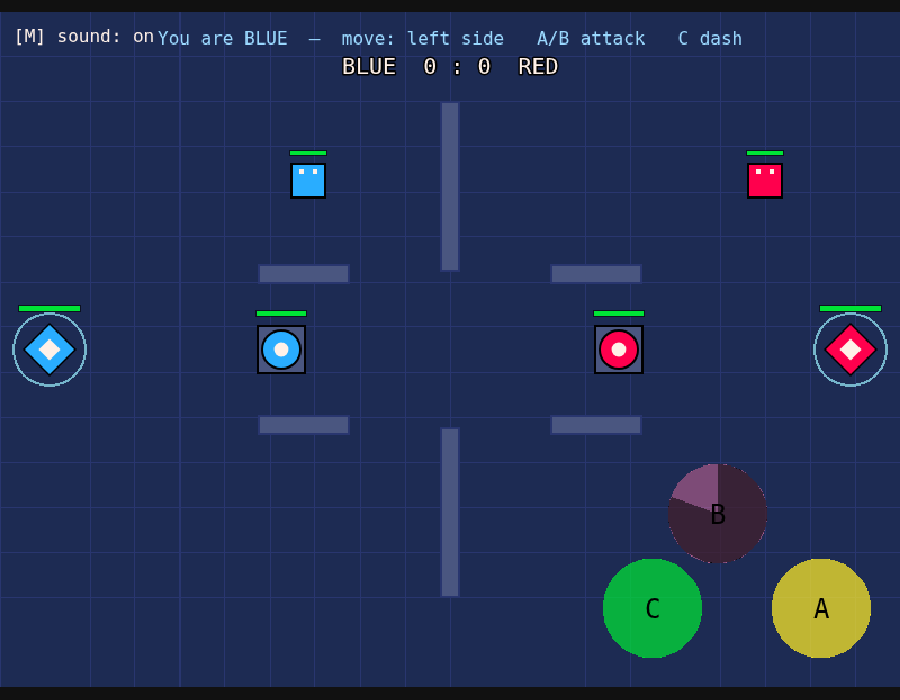
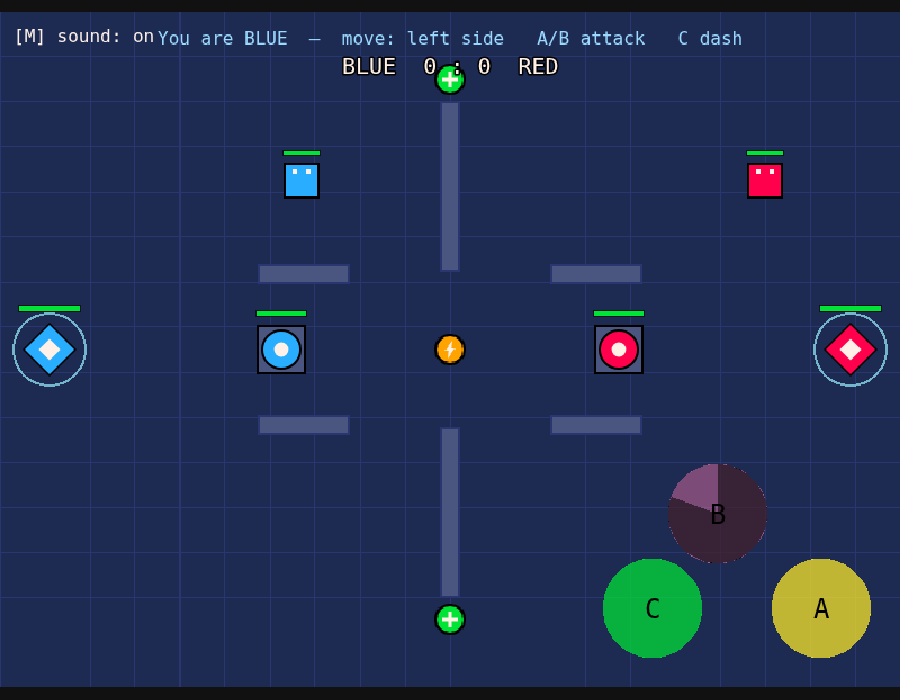
Add map pickups: heal and power orbs
Give the open map a reason to fight over it. Orbs sit at fixed spots down the
center column (fair to both teams, but contested): a green HEAL orb restores HP
instantly, an orange POWER orb boosts your attack damage for a few seconds (the
hero glows). A grabbed orb disappears and reappears on a timer.

Server: pickups live in this.pickups, reset with the match. stepPickups() grants
an active orb to a living player standing on it (then starts its respawn timer)
and brings back ones whose timer elapsed; grantPickup() heals (capped at max) or
sets player.powerUntil. tryAttack() multiplies a buffed bolt's damage by
PICKUP.powerMult. Snapshots send only the active orbs, plus a per-player
`powered` flag for the aura. New PICKUP + PICKUP_SPOTS config.

Client: NetClient stores pickups; ArenaScene.syncPickups() draws the active orbs
with a gentle pulse and cleans up grabbed ones; the Player entity shows an
orange aura while powered (Player.setPowered). New heal/power orb textures.

New m21.pickups (server: heal restores + caps, power buffs bolt damage then
expires, taken orb respawns on its timer, snapshot lists only active orbs +
powered flag, reset) and m21.pickups.render (orb sprites created/cleaned up,
powered aura toggles). m20's projectile sub-test clears pickups so the center
orb can't change its bolt's damage. 31/31 test groups pass; live two-browser
test passes; build OK. README + HOW-TO + showcase screenshot updated.

https://claude.ai/code/session_01MAXKRUpJFcKFAvV2b8xTXo

diff --git a/src/net/GameServer.js b/src/net/GameServer.js
@@ -22,6 +22,8 @@ import {
   MINION,
   TOWER,
   TOWER_POS,
+  PICKUP,
+  PICKUP_SPOTS,
 } from "../config.js";
 import { stepPosition, normalizeInput, resolveMove, pointInWall } from "../sim.js";
 
@@ -44,8 +46,10 @@ export default class GameServer {
 
     this.bases = new Map(); // team -> { team, x, y, hp, alive }
     this.towers = new Map(); // team -> { team, x, y, hp, alive, cd }
+    this.pickups = []; // [{ id, kind, x, y, active, respawnAt }]
     this.resetBases();
     this.resetTowers();
+    this.resetPickups();
     // Match lifecycle:
     //   "waiting"   — not enough players yet; the world is frozen in the lobby
     //   "countdown" — enough players; a short "get ready" timer is running
@@ -70,6 +74,17 @@ export default class GameServer {
       const pos = TOWER_POS[team];
       this.towers.set(team, { team, x: pos.x, y: pos.y, hp: TOWER.maxHp, alive: true, cd: 0 });
     }
+  }
+
+  resetPickups() {
+    this.pickups = PICKUP_SPOTS.map((s) => ({
+      id: s.id,
+      kind: s.kind,
+      x: s.x,
+      y: s.y,
+      active: true, // available to grab
+      respawnAt: 0, // when an inactive one comes back (ms on the sim clock)
+    }));
   }
 
   addConnection(conn) {
@@ -144,6 +159,7 @@ export default class GameServer {
       alive: true,
       deadUntil: 0,
       cd: { basic: 0, ability: 0, dash: 0 },
+      powerUntil: 0, // attack-damage buff active while timeMs < this
     };
   }
 
@@ -203,6 +219,10 @@ export default class GameServer {
     ax /= len;
     ay /= len;
 
+    // A power pickup boosts this attack's damage while the buff is active.
+    const powered = this.timeMs < player.powerUntil;
+    const dmg = Math.round(spec.dmg * (powered ? PICKUP.powerMult : 1));
+
     this.projectiles.push({
       id: "b" + this.nextProjId++,
       ownerId: player.id,
@@ -212,7 +232,7 @@ export default class GameServer {
       y: player.y,
       vx: ax * spec.speed,
       vy: ay * spec.speed,
-      dmg: spec.dmg,
+      dmg,
       dieAt: this.timeMs + spec.ttl,
     });
   }
@@ -470,6 +490,9 @@ export default class GameServer {
     // 3) Let the towers zap any enemy in range.
     this.stepTowers();
 
+    // 3b) Pick-ups: grant to anyone standing on them; respawn taken ones.
+    this.stepPickups();
+
     // 4) Move projectiles; expire; check hits on players, minions, towers, bases.
     const survivors = [];
     for (const b of this.projectiles) {
@@ -536,6 +559,37 @@ export default class GameServer {
     }
   }
 
+  // --- Map pickups -----------------------------------------------------------
+
+  // Grant any active pickup to a living player standing on it (then send it on a
+  // respawn timer), and bring back ones whose timer has elapsed.
+  stepPickups() {
+    const reach = PICKUP.radius + PLAYER_HALF;
+    for (const pk of this.pickups) {
+      if (!pk.active) {
+        if (this.timeMs >= pk.respawnAt) pk.active = true;
+        continue;
+      }
+      for (const p of this.players.values()) {
+        if (!p.alive) continue;
+        if ((p.x - pk.x) ** 2 + (p.y - pk.y) ** 2 <= reach * reach) {
+          this.grantPickup(p, pk);
+          pk.active = false;
+          pk.respawnAt = this.timeMs + PICKUP.respawnMs;
+          break;
+        }
+      }
+    }
+  }
+
+  grantPickup(player, pk) {
+    if (pk.kind === "heal") {
+      player.hp = Math.min(COMBAT.maxHp, player.hp + PICKUP.heal);
+    } else if (pk.kind === "power") {
+      player.powerUntil = this.timeMs + PICKUP.powerMs;
+    }
+  }
+
   damageBase(base, amount) {
     if (!this.baseVulnerable(base.team)) return; // shielded while its tower stands
     base.hp = Math.max(0, base.hp - amount);
@@ -567,6 +621,7 @@ export default class GameServer {
   resetMatch() {
     this.resetBases();
     this.resetTowers();
+    this.resetPickups();
     this.score = { blue: 0, red: 0 };
     for (const p of this.players.values()) {
       const fresh = this.freshPlayer(p.id, p.team, p.spawnIndex);
@@ -605,6 +660,7 @@ export default class GameServer {
         alive: p.alive,
         // Seconds until this player respawns (0 if alive) — for the HUD timer.
         respawnIn: p.alive ? 0 : Math.max(0, Math.ceil((p.deadUntil - this.timeMs) / 1000)),
+        powered: this.timeMs < p.powerUntil, // power buff active (for the aura)
       })),
       projectiles: this.projectiles.map((b) => ({
         id: b.id,
@@ -621,6 +677,10 @@ export default class GameServer {
         hp: m.hp,
         alive: m.alive,
       })),
+      // Only the currently-available pickups (the client shows what's listed).
+      pickups: this.pickups
+        .filter((pk) => pk.active)
+        .map((pk) => ({ id: pk.id, kind: pk.kind, x: pk.x, y: pk.y })),
       towers: [...this.towers.values()].map((tw) => ({
         team: tw.team,
         x: tw.x,

diff --git a/src/scenes/ArenaScene.js b/src/scenes/ArenaScene.js
@@ -35,6 +35,7 @@ export default class ArenaScene extends Phaser.Scene {
     this.sprites = new Map(); // player id -> Player display object
     this.bolts = new Map(); // projectile id -> circle
     this.minionSprites = new Map(); // minion id -> Minion display object
+    this.pickupSprites = new Map(); // pickup id -> sprite
     this.towerSprites = new Map(); // team -> Tower display object
     this.baseSprites = new Map(); // team -> Base display object
     this.damageNumbers = []; // active floating damage-number texts
@@ -242,6 +243,7 @@ export default class ArenaScene extends Phaser.Scene {
     // 2) Sync everything to the server's snapshot.
     this.syncBases();
     this.syncTowers();
+    this.syncPickups();
     this.syncMinions();
     this.syncPlayers(dt);
     this.syncProjectiles();
@@ -402,6 +404,7 @@ export default class ArenaScene extends Phaser.Scene {
 
       sprite.setHp(p.hp);
       sprite.setAlive(p.alive);
+      sprite.setPowered(p.powered);
     }
     for (const [id, sprite] of this.sprites) {
       if (!seen.has(id)) {
@@ -481,6 +484,35 @@ export default class ArenaScene extends Phaser.Scene {
       sprite.lastAlive = tw.alive;
       sprite.setHp(tw.hp, tw.maxHp);
       sprite.setAlive(tw.alive);
+    }
+  }
+
+  // Draw the available map pickups (the snapshot lists only active ones), with
+  // a gentle pulse. A pickup that's been grabbed drops out of the list and its
+  // sprite is removed.
+  syncPickups() {
+    const seen = new Set();
+    for (const pk of this.net.pickups) {
+      seen.add(pk.id);
+      if (!this.pickupSprites.has(pk.id)) {
+        const tex = pk.kind === "heal" ? "pickup_heal" : "pickup_power";
+        const sprite = this.add.sprite(pk.x, pk.y, tex).setDepth(5);
+        this.tweens.add({
+          targets: sprite,
+          scale: 1.18,
+          yoyo: true,
+          repeat: -1,
+          duration: 600,
+          ease: "Sine.inOut",
+        });
+        this.pickupSprites.set(pk.id, sprite);
+      }
+    }
+    for (const [id, sprite] of this.pickupSprites) {
+      if (!seen.has(id)) {
+        sprite.destroy();
+        this.pickupSprites.delete(id);
+      }
     }
   }
 

diff --git a/src/textures.js b/src/textures.js
@@ -5,7 +5,7 @@
 // Later you can replace these with real .png art without changing game logic.
 // ===========================================================================
 
-import { COLORS, PLAYER_SIZE, BASE, MINION, TOWER } from "./config.js";
+import { COLORS, PLAYER_SIZE, BASE, MINION, TOWER, PICKUP } from "./config.js";
 
 // Draws one little 16x16 character sprite into a named texture.
 // `key` is the name we'll refer to it by; `bodyColor` is its team color.
@@ -104,6 +104,30 @@ function makeTowerTexture(scene, key, color) {
   g.destroy();
 }
 
+// Draws a pickup orb: a round, outlined disc with a symbol. A green disc with a
+// white cross = heal; an orange disc with a white "bolt" wedge = power.
+function makePickupTexture(scene, key, kind) {
+  const g = scene.make.graphics({ x: 0, y: 0 }, false);
+  const r = PICKUP.radius;
+  const s = r * 2;
+  g.fillStyle(COLORS.outline, 1);
+  g.fillCircle(r, r, r);
+  g.fillStyle(kind === "heal" ? 0x00e436 : 0xffa300, 1);
+  g.fillCircle(r, r, r - 2);
+  g.fillStyle(COLORS.white, 1);
+  if (kind === "heal") {
+    // A plus sign.
+    g.fillRect(r - 1.5, r - 6, 3, 12);
+    g.fillRect(r - 6, r - 1.5, 12, 3);
+  } else {
+    // A little lightning bolt (two stacked triangles offset sideways).
+    g.fillTriangle(r + 2, r - 7, r - 4, r + 1, r + 1, r + 1);
+    g.fillTriangle(r - 2, r + 7, r + 4, r - 1, r - 1, r - 1);
+  }
+  g.generateTexture(key, s, s);
+  g.destroy();
+}
+
 // Called once when the arena starts. Creates every texture the game needs.
 export function generateTextures(scene) {
   makeCharacterTexture(scene, "player_blue", COLORS.blueTeam);
@@ -114,4 +138,6 @@ export function generateTextures(scene) {
   makeMinionTexture(scene, "minion_red", COLORS.minionRed);
   makeTowerTexture(scene, "tower_blue", COLORS.blueTeam);
   makeTowerTexture(scene, "tower_red", COLORS.redTeam);
+  makePickupTexture(scene, "pickup_heal", "heal");
+  makePickupTexture(scene, "pickup_power", "power");
 }

diff --git a/src/config.js b/src/config.js
@@ -99,6 +99,25 @@ export const DASH = {
   cd: 2000, // cooldown in milliseconds
 };
 
+// --- Map pickups ------------------------------------------------------------
+// Orbs that sit at fixed spots in the open arena. Walk over one to grab it: a
+// HEAL orb restores HP instantly, a POWER orb boosts your attack damage for a
+// few seconds. After it's taken, it reappears on a timer. All spots sit on the
+// center column (x = middle) so neither team is closer — fair but contested.
+export const PICKUP = {
+  radius: 12, // on-screen size
+  respawnMs: 12000, // time to reappear after being grabbed
+  heal: 40, // HP restored by a heal orb
+  powerMult: 1.6, // attack-damage multiplier while a power buff is active
+  powerMs: 6000, // how long the power buff lasts
+};
+
+export const PICKUP_SPOTS = [
+  { id: "heal_top", kind: "heal", x: GAME_WIDTH / 2, y: 60 },
+  { id: "heal_bot", kind: "heal", x: GAME_WIDTH / 2, y: GAME_HEIGHT - 60 },
+  { id: "power_mid", kind: "power", x: GAME_WIDTH / 2, y: GAME_HEIGHT / 2 },
+];
+
 // --- Bases & match ----------------------------------------------------------
 export const BASE = {
   maxHp: 250, // ~31 basic hits, or fewer with the ability — short matches

diff --git a/src/entities/Player.js b/src/entities/Player.js
@@ -20,6 +20,9 @@ export default class Player extends Phaser.GameObjects.Container {
     this.targetX = x;
     this.targetY = y;
 
+    // A soft orange aura shown behind the body while a power buff is active.
+    this.aura = scene.add.circle(0, 0, (PLAYER_SIZE * SPRITE_SCALE) / 2 + 6, 0xffa300, 0);
+
     const texture = team === "red" ? "player_red" : "player_blue";
     this.bodySprite = scene.add.sprite(0, 0, texture).setScale(SPRITE_SCALE);
 
@@ -29,8 +32,13 @@ export default class Player extends Phaser.GameObjects.Container {
       .rectangle(-BAR_W / 2, BAR_Y, BAR_W, 3, 0x00e436)
       .setOrigin(0, 0.5);
 
-    this.add([this.bodySprite, this.hpBg, this.hpFill]);
+    this.add([this.aura, this.bodySprite, this.hpBg, this.hpFill]);
     scene.add.existing(this);
+  }
+
+  // Toggle the power-buff aura.
+  setPowered(on) {
+    this.aura.setFillStyle(0xffa300, on ? 0.4 : 0);
   }
 
   setTarget(x, y) {

diff --git a/src/net/NetClient.js b/src/net/NetClient.js
@@ -13,6 +13,7 @@ export default class NetClient {
     this.players = []; // latest roster: [{ id, team, x, y, hp, alive }]
     this.projectiles = []; // bolts in flight: [{ id, team, kind, x, y }]
     this.minions = []; // lane minions: [{ id, team, x, y, hp, alive }]
+    this.pickups = []; // available map pickups: [{ id, kind, x, y }]
     this.towers = []; // guard towers: [{ team, x, y, hp, maxHp, alive }]
     this.bases = []; // [{ team, x, y, hp, maxHp, alive }]
     this.phase = "playing"; // "waiting" | "countdown" | "playing" | "over"
@@ -69,6 +70,7 @@ export default class NetClient {
       this.players = msg.players;
       this.projectiles = msg.projectiles || [];
       this.minions = msg.minions || [];
+      this.pickups = msg.pickups || [];
       this.towers = msg.towers || [];
       this.bases = msg.bases || [];
       this.phase = msg.phase || "playing";

diff --git a/docs/HOW-TO-KEEP-BUILDING.md b/docs/HOW-TO-KEEP-BUILDING.md
@@ -59,7 +59,7 @@ touch points — a config entry, a server `try…` method + an `onMessage` case,
 
 ---
 
-## 4. Tune the lane minions & guard towers (already done ✅)
+## 4. Tune the lane minions, towers & pickups (already done ✅)
 
 Both teams now spawn waves of weak AI **minions** that march toward the enemy
 base, fight whatever they meet, and chip the base when they arrive. Everything
@@ -106,6 +106,24 @@ tower is gone — so the tower is the gate to victory. That rule is just
 `damageBase()` and `nearestTarget()`; the client shows a glowing ring around a
 shielded base (`Base.setShielded`). Want classic uncapturable bases or a
 different gate? Tweak `baseVulnerable`.
+
+**Map pickups** are tuned in `src/config.js` → `PICKUP`, and placed by
+`PICKUP_SPOTS` (all on the center column so they're fair to both teams):
+
+| You want… | Change this | Try |
+|---|---|---|
+| Bigger heals | `PICKUP.heal` | `60` |
+| Stronger power buff | `PICKUP.powerMult` | `2.0` |
+| Longer power buff | `PICKUP.powerMs` | `10000` (=10s) |
+| Faster orb respawns | `PICKUP.respawnMs` | `6000` |
+| Add/move an orb | `PICKUP_SPOTS` | `{ id, kind: "heal"`\|`"power", x, y }` |
+
+The logic is `GameServer.stepPickups()` (grant to a player standing on an active
+orb, then respawn it on a timer) and `grantPickup()`. A heal restores HP
+instantly; a power orb sets `player.powerUntil`, and `tryAttack()` multiplies a
+buffed bolt's damage. The client draws active orbs (`syncPickups`) and a glow on
+a powered hero (`Player.setPowered`). New `kind`s are easy: add a case to
+`grantPickup` and a texture in `textures.js`.
 
 ---
 

diff --git a/README.md b/README.md
@@ -87,6 +87,11 @@ you whittle it down. **A base is shielded (a glowing ring) and can't be touched
 until its own tower is destroyed**, so the tower is the gate to victory: break
 the tower, then raze the exposed base to win.
 
+**Map pickups:** orbs sit at fixed spots down the center of the arena (fair to
+both teams, but contested). Grab a green **heal** orb to restore HP, or an
+orange **power** orb to boost your attack damage for a few seconds (you'll glow).
+Taken orbs reappear on a timer.
+
 **Scoreboard & respawns:** a team kill scoreboard sits at the top of the screen,
 and when you're knocked out a "Respawning in N…" countdown tells you how long
 until you're back in the fight.
